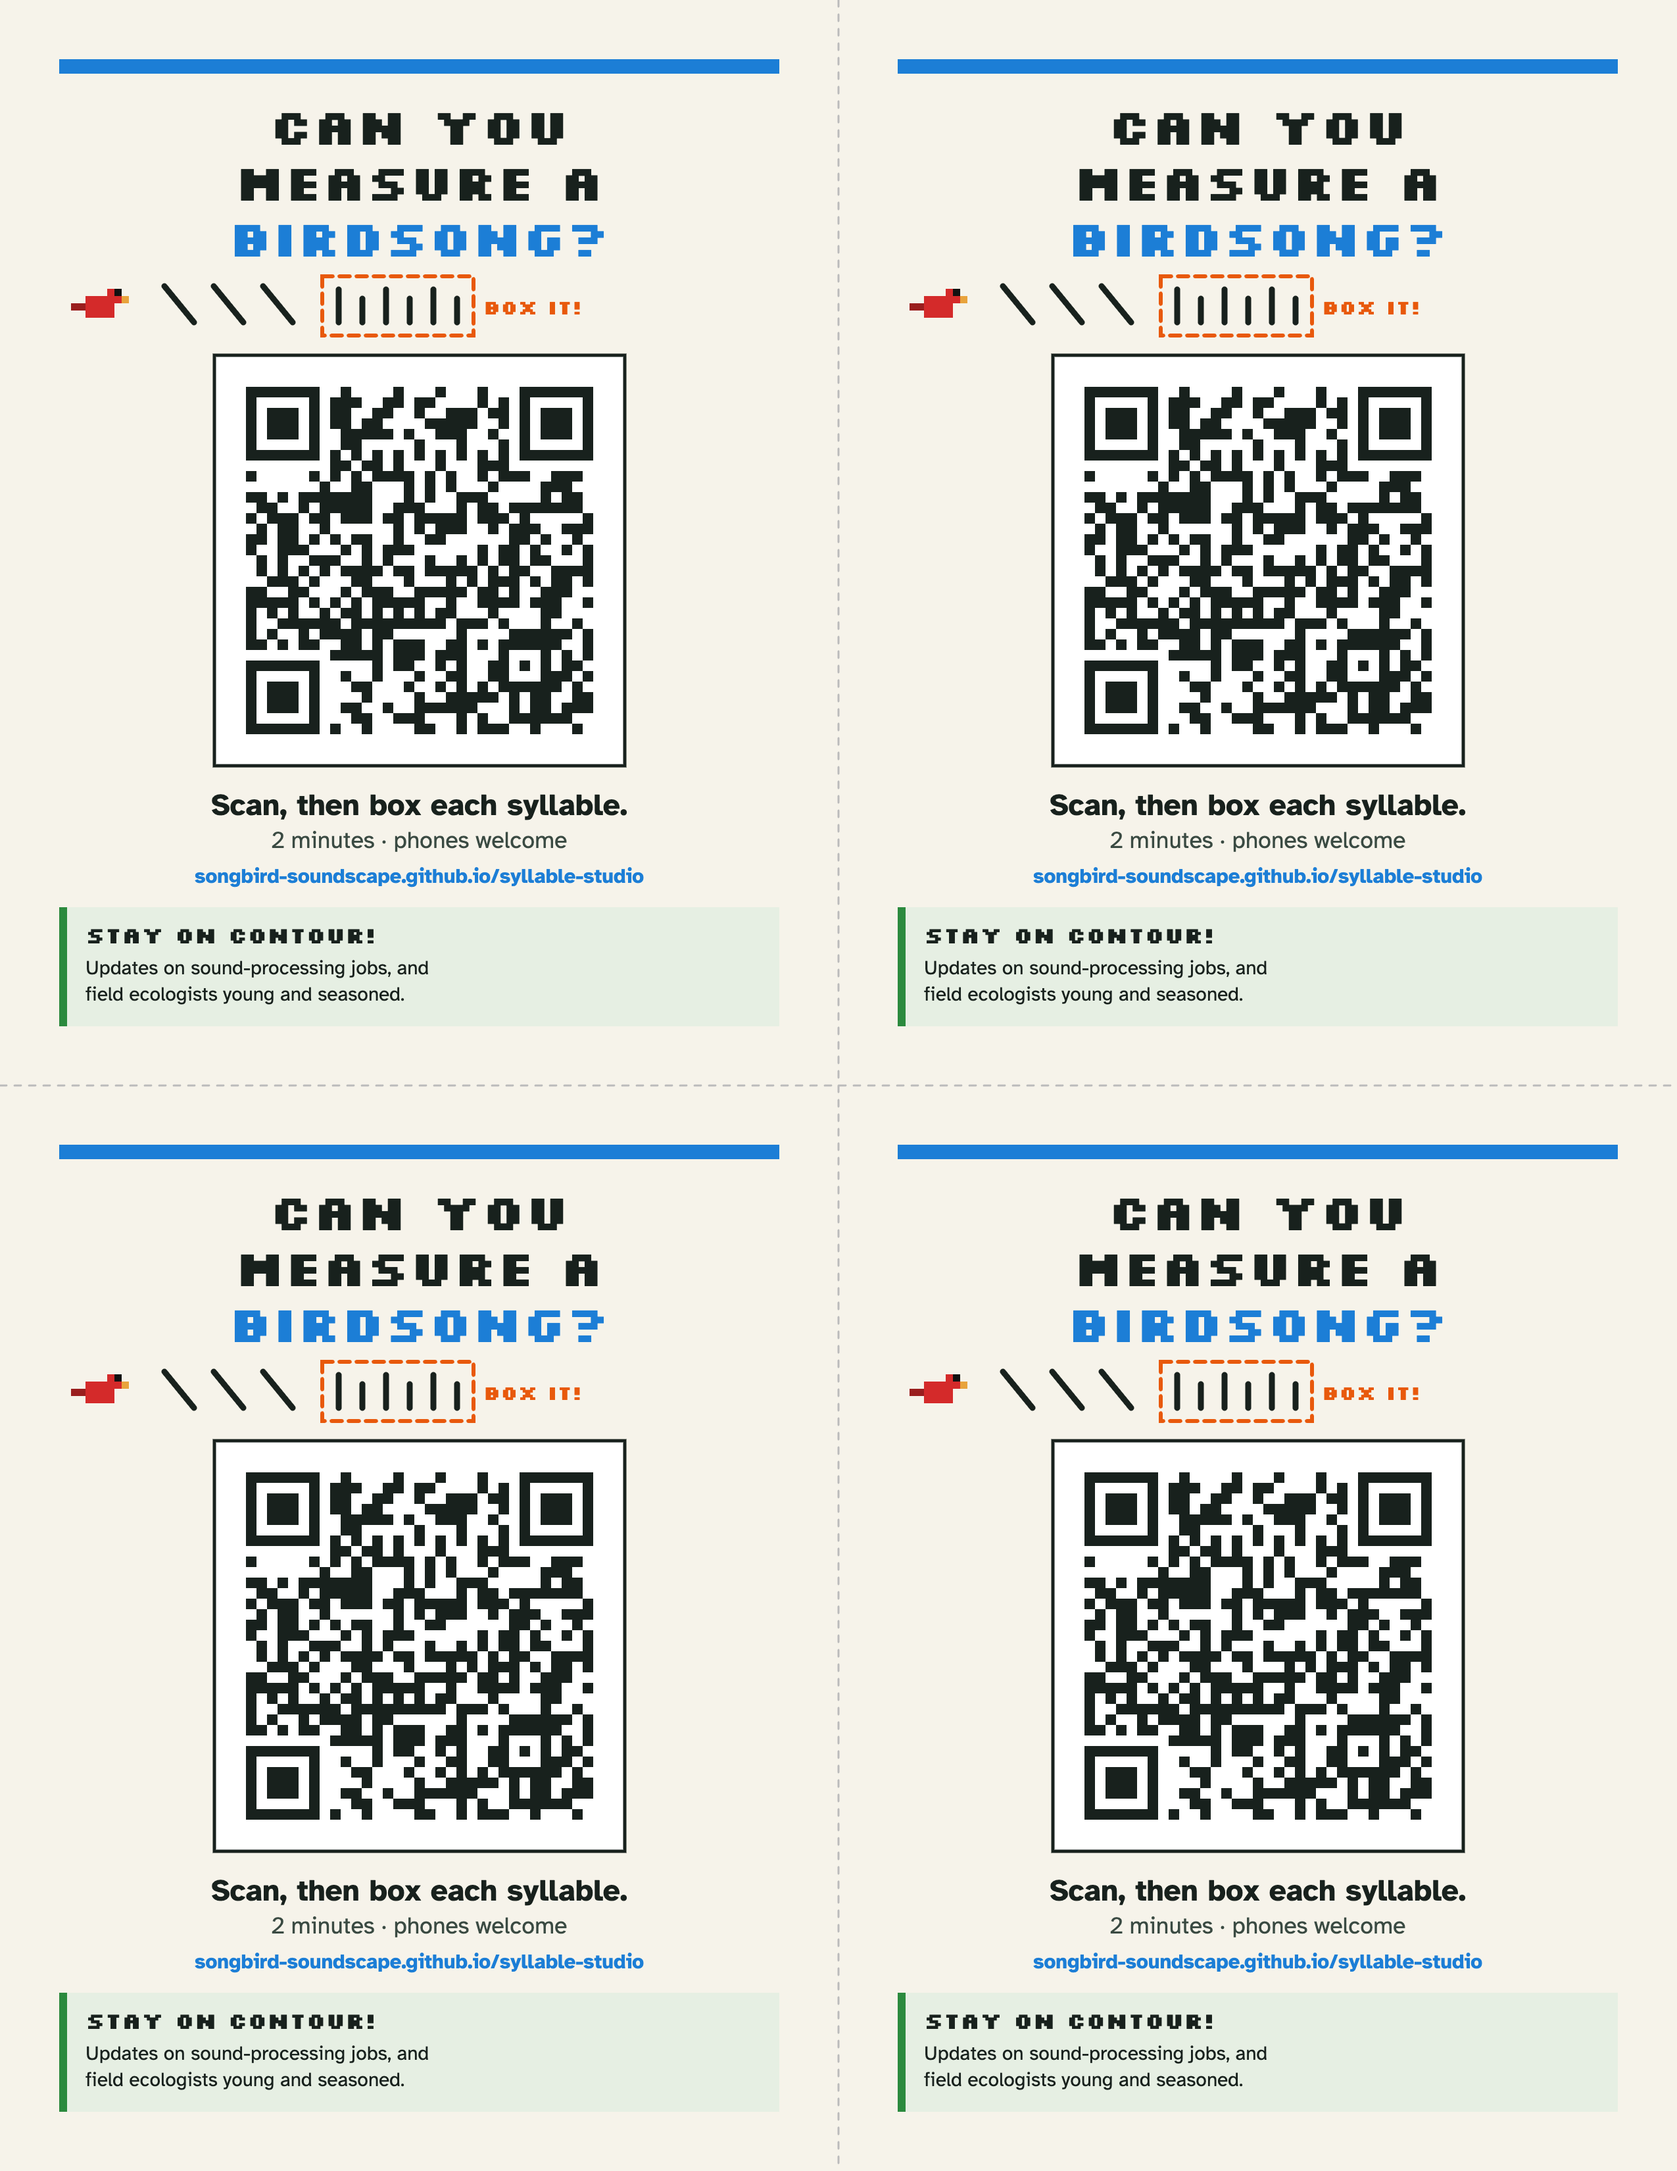
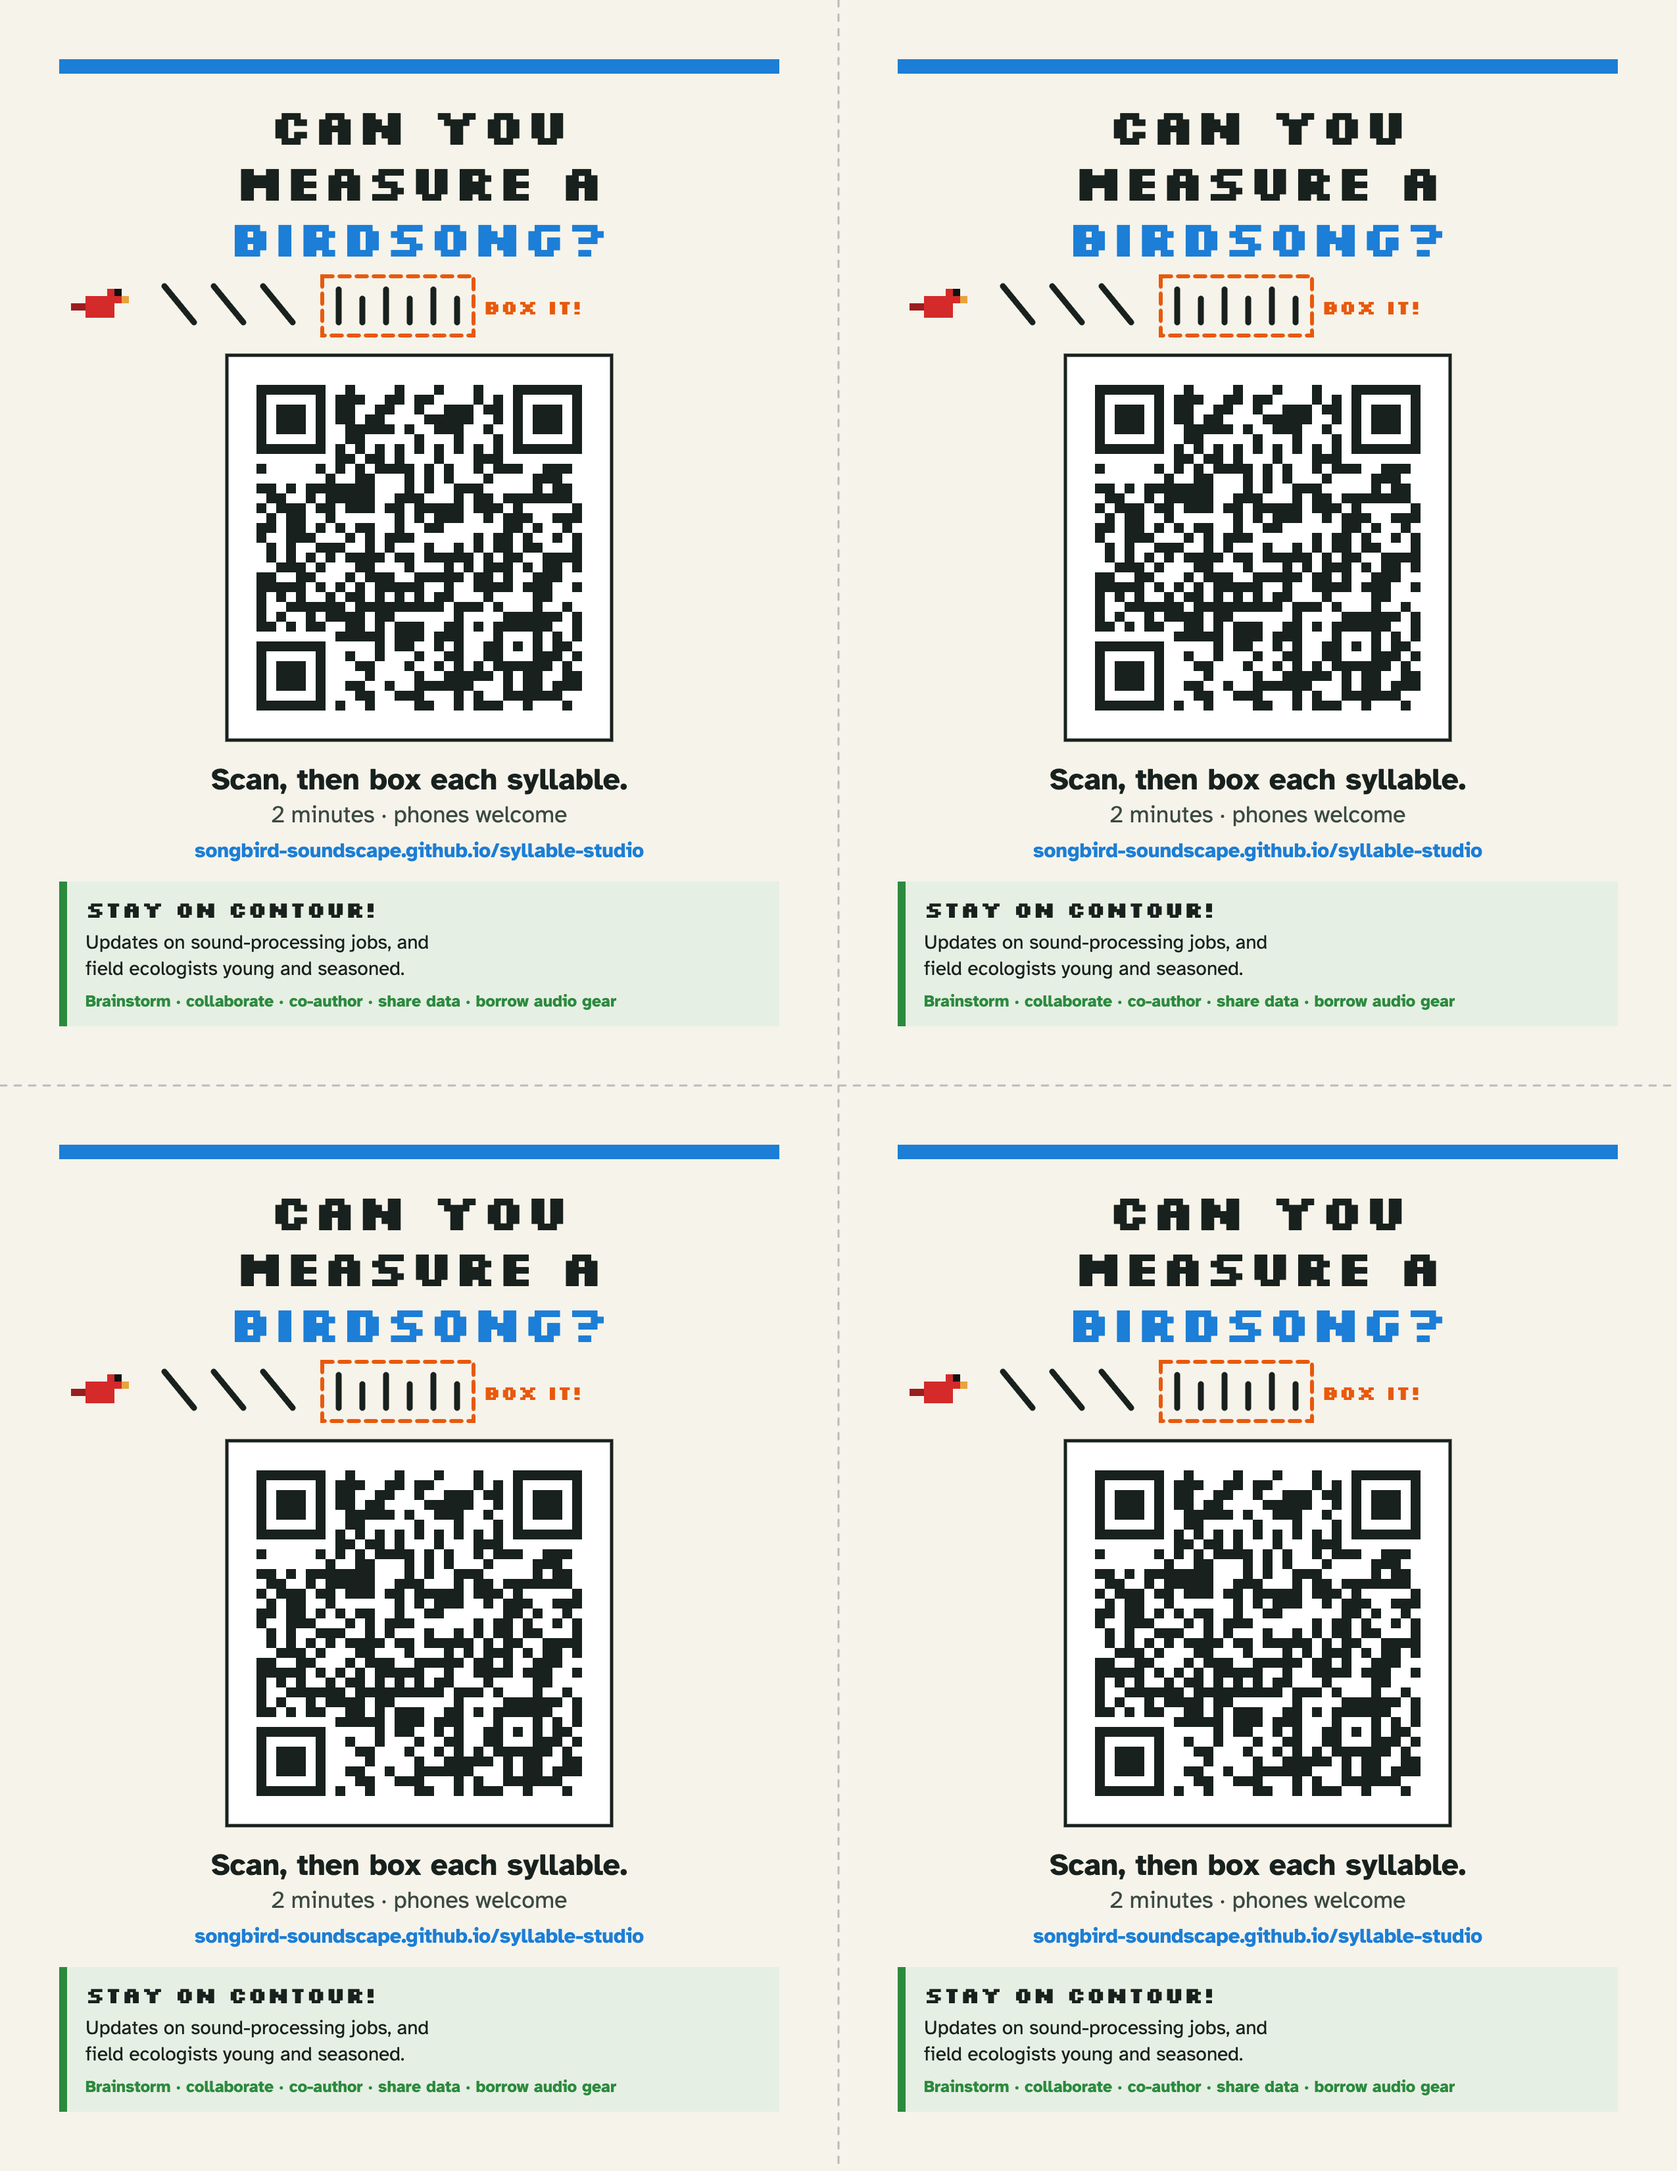
Member benefits, a tap-button questionnaire, and the Caracal help option

diff --git a/index.html b/index.html
@@ -48,6 +48,8 @@ th { font-size: 11px; text-transform: uppercase; letter-spacing: 1px; color: var
 tr.sel td { background: var(--chip); }
 .labels button { font-weight: 400; padding: 6px 10px; }
 .join { border-left: 5px solid var(--good); }
+.perks { margin: 0; padding-left: 20px; display: grid; gap: 4px; font-size: 15px; }
+.perks b { color: var(--good); }
 @media (prefers-reduced-motion: reduce) { * { transition: none !important; } }
 </style>
 </head>
@@ -88,7 +90,22 @@ tr.sel td { background: var(--chip); }
   <section class="bench join" aria-labelledby="hJoin">
     <h2 id="hJoin">Join the field circle</h2>
     <p>Liked it? <b>Stay on contour!</b> Get updates when the lab posts sound-processing jobs that need careful ears and hands: measuring songs, sorting recordings, checking each other's boxes. And we're starting a community where young and seasoned field ecologists meet, trade what they know, and go out listening together.</p>
+    <ul class="perks">
+      <li><b>Natural history brainstorming:</b> bring a question from the field and think it through with people who've watched longer, or more recently, than you have.</li>
+      <li><b>Project collaboration:</b> team up on recordings, surveys and analyses.</li>
+      <li><b>Credit for your work:</b> a chance to contribute to a publication, or to spin off a project of your own.</li>
+      <li><b>Shared data:</b> recordings and measurements the circle collects, open to members.</li>
+      <li><b>Loaned audio gear:</b> borrow recorders and microphones to get started.</li>
+    </ul>
     <div class="btns"><button class="go" id="joinBtn">Stay on contour! Get updates</button><span class="eyebrow" id="joinMsg"></span></div>
+  </section>
+
+  <section class="bench" aria-labelledby="hQ">
+    <h2 id="hQ">A quick, voluntary questionnaire</h2>
+    <p class="note">Tap any answers that fit. Skip anything you like. Your answers build a list at the bottom, and nothing is sent unless you choose to submit it. No names or contact details.</p>
+    <div id="qs" style="display:grid;gap:12px"></div>
+    <div class="bench" style="background:var(--chip)"><span class="eyebrow">Your answers</span><ul id="qList" class="perks"></ul>
+      <div class="btns"><button class="go" id="qSend">Submit as my survey response</button><button id="qCopy">Copy</button><button id="qClear">Clear</button><span class="eyebrow" id="qMsg"></span></div></div>
   </section>
 
   <section class="bench" aria-labelledby="hHow">
@@ -106,7 +123,7 @@ const clamp = (v, a, b) => Math.max(a, Math.min(b, v));
 const tok = n => getComputedStyle(document.documentElement).getPropertyValue(n).trim();
 
 // ================= links: paste these in once the Google Forms exist (see google-forms-setup.gs) =================
-const SEND_CFG = { formUrl: '', dataEntry: '', sessionEntry: '' };   // results form: prefilled with the CSV text
+const SEND_CFG = { formUrl: '', dataEntry: '', sessionEntry: '', surveyEntry: '' };   // results form: prefilled with the CSV text and the survey list
 const JOIN_URL = '';                                                   // the community sign-up form
 
 const SESSION = Math.random().toString(36).slice(2, 8).toUpperCase();
@@ -275,6 +292,32 @@ $('send').onclick = () => { const t = csvText(); if (!t) { $('dataMsg').textCont
   const u = new URL(SEND_CFG.formUrl); u.searchParams.set('usp', 'pp_url'); u.searchParams.set(SEND_CFG.dataEntry, t.slice(0, 6000)); if (SEND_CFG.sessionEntry) u.searchParams.set(SEND_CFG.sessionEntry, SESSION);
   const a = document.createElement('a'); a.href = u.toString(); a.target = '_blank'; a.rel = 'noopener'; document.body.appendChild(a); a.click(); a.remove(); $('dataMsg').textContent = 'opened the form: press Submit there'; };
 $('joinBtn').onclick = () => { if (!JOIN_URL) { $('joinMsg').textContent = 'sign-up opens soon'; return; } const a = document.createElement('a'); a.href = JOIN_URL; a.target = '_blank'; a.rel = 'noopener'; document.body.appendChild(a); a.click(); a.remove(); };
+// ================= the questionnaire: tap buttons, get a list =================
+const QS = [
+  { id: 'who', q: 'You are', multi: false, a: ['Undergraduate', 'Graduate student', 'Early-career researcher', 'Seasoned field ecologist', 'Birder or naturalist', 'Just curious'] },
+  { id: 'feel', q: 'Measuring syllables felt', multi: false, a: ['Easy', 'Just right', 'Tricky', 'Hard'] },
+  { id: 'audio', q: 'Your experience with sound recording or spectrograms', multi: false, a: ['None yet', 'A little', 'Regularly'] },
+  { id: 'interest', q: 'You\'re interested in', multi: true, a: ['Birdsong', 'Frogs and insects', 'Soundscapes and noise', 'Natural history', 'Conservation', 'Coding and analysis', 'Recording gear'] },
+  { id: 'want', q: 'From the field circle you\'d like', multi: true, a: ['Natural history brainstorming', 'Project collaboration', 'A shot at co-authoring or a spin-off project', 'Shared data', 'Loaned audio gear'] },
+  { id: 'help', q: 'You could help with', multi: true, a: ['Measuring songs', 'Field recording', 'Sorting recordings', 'Checking others\' boxes', 'Getting the Caracal recording units up and running', 'Building tools', 'Mentoring newcomers'] },
+];
+const QA = {};
+function qRender() {
+  $('qs').innerHTML = QS.map(q => `<div style="display:grid;gap:6px"><span><b>${q.q}</b>${q.multi ? ' <span class="eyebrow">(pick any)</span>' : ''}</span><div class="btns">${q.a.map((a, i) => `<button data-q="${q.id}" data-i="${i}" aria-pressed="${(QA[q.id] || []).includes(i)}">${a}</button>`).join('')}</div></div>`).join('');
+  document.querySelectorAll('#qs button').forEach(b => b.onclick = () => { const q = QS.find(x => x.id === b.dataset.q), i = +b.dataset.i, cur = QA[q.id] || [];
+    QA[q.id] = q.multi ? (cur.includes(i) ? cur.filter(x => x !== i) : [...cur, i]) : (cur.includes(i) ? [] : [i]); qRender(); });
+  const lines = QS.filter(q => (QA[q.id] || []).length).map(q => `${q.q}: ${QA[q.id].map(i => q.a[i]).join(', ')}`);
+  $('qList').innerHTML = lines.length ? lines.map(l => `<li>${l}</li>`).join('') : '<li class="note">Tap some answers above to build your list.</li>';
+  return lines;
+}
+const qText = () => { const l = qRender(); return l.length ? `visit ${SESSION}\n` + l.join('\n') : ''; };
+$('qCopy').onclick = () => { const t = qText(); if (!t) { $('qMsg').textContent = 'nothing picked yet'; return; } try { navigator.clipboard.writeText(t).then(() => { $('qMsg').textContent = 'copied'; }, () => { $('qMsg').textContent = 'copy blocked here'; }); } catch (e) { $('qMsg').textContent = 'copy blocked here'; } };
+$('qClear').onclick = () => { Object.keys(QA).forEach(k => delete QA[k]); qRender(); $('qMsg').textContent = ''; };
+$('qSend').onclick = () => { const t = qText(); if (!t) { $('qMsg').textContent = 'nothing picked yet'; return; }
+  if (!SEND_CFG.formUrl || !SEND_CFG.surveyEntry) { $('qMsg').textContent = 'submitting opens soon: for now, Copy keeps your list'; return; }
+  const u = new URL(SEND_CFG.formUrl); u.searchParams.set('usp', 'pp_url'); u.searchParams.set(SEND_CFG.surveyEntry, t); if (SEND_CFG.sessionEntry) u.searchParams.set(SEND_CFG.sessionEntry, SESSION);
+  const a = document.createElement('a'); a.href = u.toString(); a.target = '_blank'; a.rel = 'noopener'; document.body.appendChild(a); a.click(); a.remove(); $('qMsg').textContent = 'opened the form: press Submit there'; };
+qRender();
 // ================= sound =================
 let AC = null, src = null;
 function ac() { if (!AC) AC = new (window.AudioContext || window.webkitAudioContext)(); if (AC.resume) AC.resume(); return AC; }

diff --git a/sign.html b/sign.html
@@ -40,16 +40,17 @@ function draw() {
   g.fillStyle = '#e8590c'; g.font = '700 46px Silkscreen'; g.textAlign = 'left'; g.fillText('BOX IT!', 1960, 880); g.textAlign = 'center';
   for (let k = 0; k < 9; k++) { g.fillStyle = '#18211d'; g.fillRect(1530 + k * 42, 830 + (k % 2) * 22, 22, 46); }
   // the QR code
-  const qr = qrcode(0, 'M'); qr.addData(URL_); qr.make(); const n = qr.getModuleCount(), size = 1360, cell = Math.floor(size / (n + 8)), qs = cell * (n + 8), qx = (W - qs) / 2, qy = 1010;
+  const qr = qrcode(0, 'M'); qr.addData(URL_); qr.make(); const n = qr.getModuleCount(), size = 1290, cell = Math.floor(size / (n + 8)), qs = cell * (n + 8), qx = (W - qs) / 2, qy = 1010;
   g.fillStyle = '#ffffff'; g.fillRect(qx, qy, qs, qs); g.strokeStyle = '#18211d'; g.lineWidth = 8; g.strokeRect(qx, qy, qs, qs);
   g.fillStyle = '#18211d'; for (let r = 0; r < n; r++) for (let col = 0; col < n; col++) if (qr.isDark(r, col)) g.fillRect(qx + (col + 4) * cell, qy + (r + 4) * cell, cell, cell);
   const below = qy + qs;
   g.font = '700 92px "Atkinson Hyperlegible", sans-serif'; g.fillStyle = '#18211d'; g.fillText('Scan, then drag a box around each syllable.', W / 2, below + 150);
   g.font = '400 70px "Atkinson Hyperlegible", sans-serif'; g.fillStyle = '#3a4a42'; g.fillText('2 minutes  ·  phones welcome  ·  see how close you get', W / 2, below + 260);
   g.font = '700 62px "Atkinson Hyperlegible", sans-serif'; g.fillStyle = '#1c7ed6'; g.fillText('songbird-soundscape.github.io/syllable-studio', W / 2, below + 370);
-  g.fillStyle = '#e6efe3'; g.fillRect(170, below + 450, W - 340, 360); g.fillStyle = '#2b8a3e'; g.fillRect(170, below + 450, 22, 360);
+  g.fillStyle = '#e6efe3'; g.fillRect(170, below + 450, W - 340, 430); g.fillStyle = '#2b8a3e'; g.fillRect(170, below + 450, 22, 430);
   g.textAlign = 'left'; g.fillStyle = '#18211d'; g.font = '700 70px Silkscreen'; g.fillText('STAY ON CONTOUR!', 250, below + 560);
   g.font = '400 60px "Atkinson Hyperlegible", sans-serif'; g.fillText('Updates on sound-processing jobs, and a circle of', 250, below + 660); g.fillText('field ecologists young and seasoned, sharing what they know.', 250, below + 740);
+  g.font = '700 46px "Atkinson Hyperlegible", sans-serif'; g.fillStyle = '#2b8a3e'; g.fillText('Brainstorm · collaborate · co-author · share data · borrow audio gear', 250, below + 830);
   g.textAlign = 'center';
 }
 document.fonts.ready.then(draw); draw();

diff --git a/cards.html b/cards.html
@@ -41,7 +41,7 @@ function card(x, y) {
   g.strokeStyle = '#18211d'; g.lineWidth = 9; for (let k = 0; k < 6; k++) { g.beginPath(); g.moveTo(tx + 25 + k * 36, by - 10 + (k % 2) * 14); g.lineTo(tx + 25 + k * 36, by + 40); g.stroke(); }
   g.fillStyle = '#e8590c'; g.font = '700 30px Silkscreen'; g.textAlign = 'left'; g.fillText('BOX IT!', tx + 245, by + 28); g.textAlign = 'center';
   // the QR, big
-  const cell = Math.floor(640 / (n + 6)), qs = cell * (n + 6), qx = Math.round(cx - qs / 2), qy = Math.round(y + P + 450);
+  const cell = Math.floor(590 / (n + 6)), qs = cell * (n + 6), qx = Math.round(cx - qs / 2), qy = Math.round(y + P + 450);
   g.fillStyle = '#ffffff'; g.fillRect(qx, qy, qs, qs); g.strokeStyle = '#18211d'; g.lineWidth = 5; g.strokeRect(qx, qy, qs, qs);
   g.fillStyle = '#18211d'; for (let r = 0; r < n; r++) for (let k = 0; k < n; k++) if (qr.isDark(r, k)) g.fillRect(qx + (k + 3) * cell, qy + (r + 3) * cell, cell, cell);
   const b = qy + qs;
@@ -52,6 +52,7 @@ function card(x, y) {
   g.fillStyle = '#e6efe3'; g.fillRect(x + P, jy, CW - 2 * P, jh); g.fillStyle = '#2b8a3e'; g.fillRect(x + P, jy, 12, jh);
   g.textAlign = 'left'; g.fillStyle = '#18211d'; g.font = '700 34px Silkscreen'; g.fillText('STAY ON CONTOUR!', x + P + 40, jy + 55);
   g.font = '400 30px "Atkinson Hyperlegible", sans-serif'; g.fillText('Updates on sound-processing jobs, and', x + P + 40, jy + 102); g.fillText('field ecologists young and seasoned.', x + P + 40, jy + 142);
+  g.font = '700 25px "Atkinson Hyperlegible", sans-serif'; g.fillStyle = '#2b8a3e'; g.fillText('Brainstorm · collaborate · co-author · share data · borrow audio gear', x + P + 40, jy + 190);
   g.textAlign = 'center';
 }
 function draw() {
